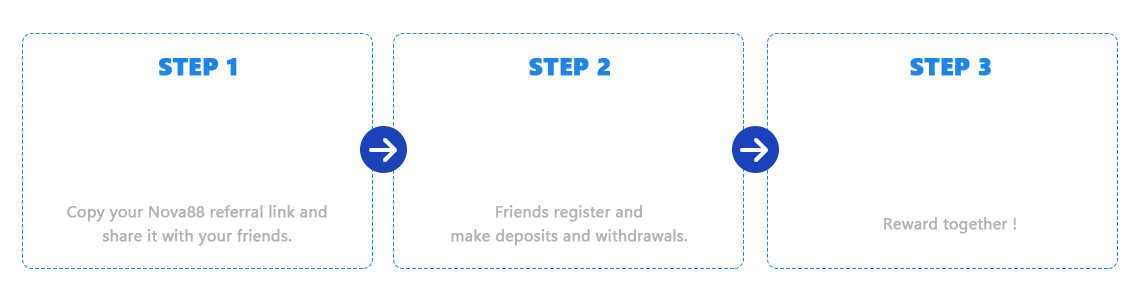
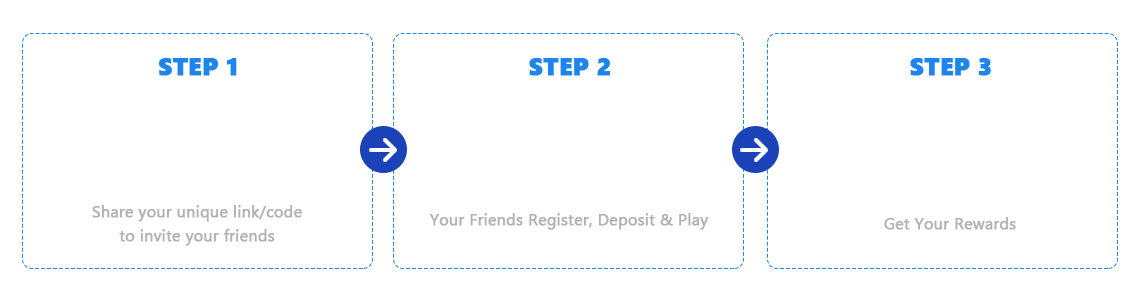
feat-(nova88): referral - add step image with langId - update translation

Changed region(s): [[0.3684, 0.69, 0.6447, 0.81], [0.0614, 0.69, 0.307, 0.81], [0.7675, 0.72, 0.8904, 0.78]]

diff --git a/apps/nova88/src/components/referral/referral.js b/apps/nova88/src/components/referral/referral.js
@@ -10,18 +10,15 @@ import usePopBox from "../hook/usePopBox";
 import ReferralLinks from "./referral.links";
 import ReferralShare from "./referral.share";
 
-import refStepBanner from "../../styles/img/refBanner.png";
-
 export default () => {
 	const { t } = useTranslation();
 	const { errorPopBox } = usePopBox();
 	const isMountedRef = useRef(null);
-
 	const [referralCode, setReferralCode] = useState("");
 	const [referralSettingData, setReferralSettingData] = useState({});
-
 	const { loading, setLoading } = useContext(loadingContext);
 	const { userInfo } = useContext(userInfoContext);
+	const refStepBanner = require(`../../styles/img/refbanner-${userInfo.langId}.png`);
 
 	useEffect(() => {
 		isMountedRef.current = true;
